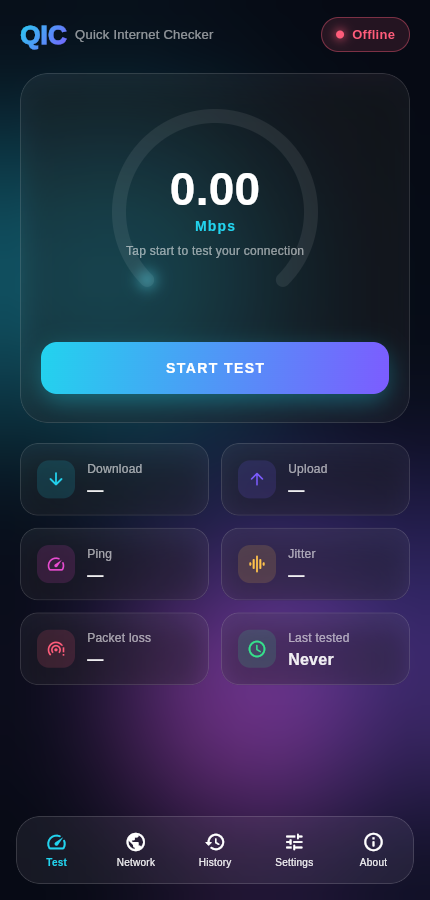
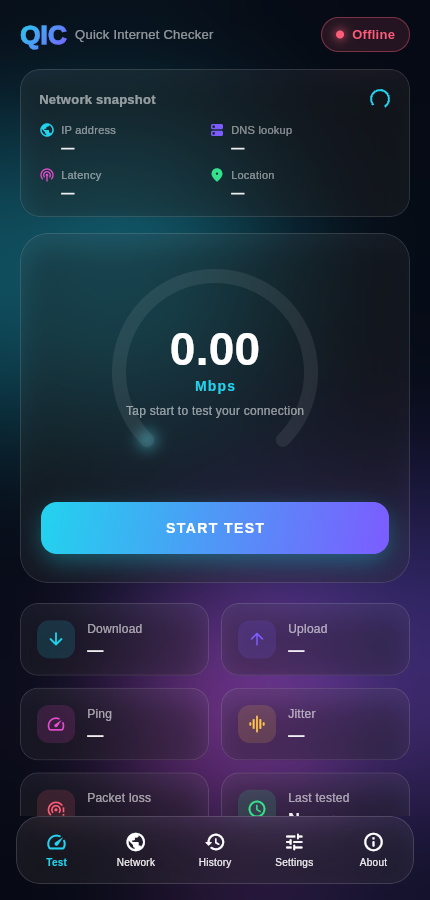
Fix light theme and add a home-screen network snapshot
Glass cards and the nav bar were tinting with a saturated brand color
in light mode, which read as flat colored blocks instead of frosted
glass. Switch to a white-based translucent tint in light mode so the
background gradient shows through properly, matching the dark theme's
look and feel.

Also add a "Network snapshot" card to the home screen (IP address, DNS
lookup time, latency, and location) so IP/DNS/latency are visible at a
glance without switching tabs, and split the Network Info screen's
combined location line into separate City/Region/Country rows.

diff --git a/lib/screens/home_screen.dart b/lib/screens/home_screen.dart
@@ -29,12 +29,41 @@ class _HomeScreenState extends State<HomeScreen> {
   bool? _online;
   bool _checkingConnectivity = true;
 
+  IpInfo? _ipInfo;
+  bool _ipFailed = false;
+  int? _dnsMs;
+  bool _dnsSupported = true;
+  int? _latencyMs;
+  bool _snapshotLoading = true;
+
   @override
   void initState() {
     super.initState();
     _refreshConnectivity();
     _loadLastResult();
+    _loadSnapshot();
     _network.connectivityStream.listen((_) => _refreshConnectivity());
+  }
+
+  Future<void> _loadSnapshot() async {
+    setState(() => _snapshotLoading = true);
+    final results = await Future.wait([
+      _network.fetchIpInfo().then<IpInfo?>((v) => v).catchError((_) => null),
+      _network.dnsLookupMs('example.com'),
+      _network.pingAll(),
+    ]);
+    if (!mounted) return;
+    final ipInfo = results[0] as IpInfo?;
+    final dnsMs = results[1] as int?;
+    final pings = (results[2] as List<PingResult>).where((p) => p.isReachable).map((p) => p.ms!);
+    setState(() {
+      _ipInfo = ipInfo;
+      _ipFailed = ipInfo == null;
+      _dnsMs = dnsMs;
+      _dnsSupported = dnsMs != null;
+      _latencyMs = pings.isEmpty ? null : pings.reduce((a, b) => a < b ? a : b);
+      _snapshotLoading = false;
+    });
   }
 
   Future<void> _loadLastResult() async {
@@ -157,7 +186,19 @@ class _HomeScreenState extends State<HomeScreen> {
                     ),
             ],
           ),
-          const SizedBox(height: 20),
+          const SizedBox(height: 16),
+          _NetworkSnapshotCard(
+            loading: _snapshotLoading,
+            ip: _ipInfo?.ip,
+            ipFailed: _ipFailed,
+            isp: _ipInfo?.isp,
+            location: _ipInfo?.location,
+            dnsMs: _dnsMs,
+            dnsSupported: _dnsSupported,
+            latencyMs: _latencyMs,
+            onRefresh: _loadSnapshot,
+          ),
+          const SizedBox(height: 16),
           GlassCard(
             borderRadius: BorderRadius.circular(28),
             padding: const EdgeInsets.symmetric(vertical: 28, horizontal: 20),
@@ -270,5 +311,137 @@ class _HomeScreenState extends State<HomeScreen> {
     if (diff.inMinutes < 60) return '${diff.inMinutes}m ago';
     if (diff.inHours < 24) return '${diff.inHours}h ago';
     return '${diff.inDays}d ago';
+  }
+}
+
+/// At-a-glance IP / DNS / latency readout, separate from the on-demand
+/// download+upload speed test above.
+class _NetworkSnapshotCard extends StatelessWidget {
+  final bool loading;
+  final String? ip;
+  final bool ipFailed;
+  final String? isp;
+  final String? location;
+  final int? dnsMs;
+  final bool dnsSupported;
+  final int? latencyMs;
+  final VoidCallback onRefresh;
+
+  const _NetworkSnapshotCard({
+    required this.loading,
+    required this.ip,
+    required this.ipFailed,
+    required this.isp,
+    required this.location,
+    required this.dnsMs,
+    required this.dnsSupported,
+    required this.latencyMs,
+    required this.onRefresh,
+  });
+
+  @override
+  Widget build(BuildContext context) {
+    final mutedColor = Theme.of(context).colorScheme.onSurface.withValues(alpha: 0.55);
+    return GlassCard(
+      borderRadius: BorderRadius.circular(20),
+      padding: const EdgeInsets.fromLTRB(18, 14, 14, 14),
+      child: Column(
+        crossAxisAlignment: CrossAxisAlignment.start,
+        children: [
+          Row(
+            mainAxisAlignment: MainAxisAlignment.spaceBetween,
+            children: [
+              Text('Network snapshot', style: TextStyle(fontWeight: FontWeight.w700, fontSize: 13, color: mutedColor)),
+              SizedBox(
+                width: 30,
+                height: 30,
+                child: loading
+                    ? const Padding(
+                        padding: EdgeInsets.all(6),
+                        child: CircularProgressIndicator(strokeWidth: 2),
+                      )
+                    : IconButton(
+                        padding: EdgeInsets.zero,
+                        iconSize: 18,
+                        onPressed: onRefresh,
+                        icon: const Icon(Icons.refresh_rounded),
+                      ),
+              ),
+            ],
+          ),
+          const SizedBox(height: 8),
+          Wrap(
+            spacing: 20,
+            runSpacing: 10,
+            children: [
+              _SnapshotFact(
+                icon: Icons.public_rounded,
+                accent: AppColors.cyan,
+                label: 'IP address',
+                value: ipFailed ? 'Unavailable' : (ip ?? '—'),
+              ),
+              _SnapshotFact(
+                icon: Icons.dns_rounded,
+                accent: AppColors.violet,
+                label: 'DNS lookup',
+                value: !dnsSupported ? 'N/A on web' : (dnsMs == null ? '—' : '$dnsMs ms'),
+              ),
+              _SnapshotFact(
+                icon: Icons.podcasts_rounded,
+                accent: AppColors.magenta,
+                label: 'Latency',
+                value: latencyMs == null ? '—' : '$latencyMs ms',
+              ),
+              _SnapshotFact(
+                icon: Icons.location_on_rounded,
+                accent: AppColors.online,
+                label: 'Location',
+                value: location ?? '—',
+              ),
+            ],
+          ),
+          if (isp != null) ...[
+            const SizedBox(height: 10),
+            Text('ISP: $isp', style: TextStyle(fontSize: 12, color: mutedColor)),
+          ],
+        ],
+      ),
+    );
+  }
+}
+
+class _SnapshotFact extends StatelessWidget {
+  final IconData icon;
+  final Color accent;
+  final String label;
+  final String value;
+
+  const _SnapshotFact({required this.icon, required this.accent, required this.label, required this.value});
+
+  @override
+  Widget build(BuildContext context) {
+    return SizedBox(
+      width: 150,
+      child: Row(
+        crossAxisAlignment: CrossAxisAlignment.start,
+        children: [
+          Icon(icon, size: 16, color: accent),
+          const SizedBox(width: 6),
+          Expanded(
+            child: Column(
+              crossAxisAlignment: CrossAxisAlignment.start,
+              children: [
+                Text(label, style: TextStyle(fontSize: 11, color: Theme.of(context).colorScheme.onSurface.withValues(alpha: 0.5))),
+                Text(
+                  value,
+                  style: const TextStyle(fontWeight: FontWeight.w700, fontSize: 13),
+                  overflow: TextOverflow.ellipsis,
+                ),
+              ],
+            ),
+          ),
+        ],
+      ),
+    );
   }
 }

diff --git a/lib/widgets/glass_card.dart b/lib/widgets/glass_card.dart
@@ -21,8 +21,6 @@ class GlassCard extends StatelessWidget {
   @override
   Widget build(BuildContext context) {
     final isDark = Theme.of(context).brightness == Brightness.dark;
-    final tint = isDark ? Colors.white : Theme.of(context).colorScheme.primary;
-    final borderColor = isDark ? Colors.white : Theme.of(context).colorScheme.primary;
 
     final content = ClipRRect(
       borderRadius: borderRadius,
@@ -31,12 +29,17 @@ class GlassCard extends StatelessWidget {
         child: Container(
           padding: padding,
           decoration: BoxDecoration(
-            color: tint.withValues(alpha: isDark ? 0.05 : 0.55),
+            // Frosted glass: a near-white (or near-black) tint, never a
+            // saturated brand color — that reads as a flat colored block
+            // instead of glass, especially in light mode.
+            color: isDark ? Colors.white.withValues(alpha: 0.05) : Colors.white.withValues(alpha: 0.62),
             borderRadius: borderRadius,
-            border: Border.all(color: borderColor.withValues(alpha: isDark ? 0.12 : 0.15)),
+            border: Border.all(
+              color: isDark ? Colors.white.withValues(alpha: 0.12) : Colors.white.withValues(alpha: 0.85),
+            ),
             boxShadow: [
               BoxShadow(
-                color: Colors.black.withValues(alpha: isDark ? 0.35 : 0.06),
+                color: (isDark ? Colors.black : const Color(0xFF3346A6)).withValues(alpha: isDark ? 0.35 : 0.10),
                 blurRadius: 24,
                 offset: const Offset(0, 12),
               ),

diff --git a/lib/screens/root_shell.dart b/lib/screens/root_shell.dart
@@ -83,12 +83,18 @@ class _GlassNavBar extends StatelessWidget {
           child: Container(
             height: 68,
             decoration: BoxDecoration(
-              color: (isDark ? Colors.white : Theme.of(context).colorScheme.primary)
-                  .withValues(alpha: isDark ? 0.06 : 0.5),
+              color: isDark ? Colors.white.withValues(alpha: 0.06) : Colors.white.withValues(alpha: 0.68),
               borderRadius: BorderRadius.circular(24),
               border: Border.all(
-                color: (isDark ? Colors.white : Theme.of(context).colorScheme.primary).withValues(alpha: 0.14),
+                color: isDark ? Colors.white.withValues(alpha: 0.14) : Colors.white.withValues(alpha: 0.9),
               ),
+              boxShadow: [
+                BoxShadow(
+                  color: (isDark ? Colors.black : const Color(0xFF3346A6)).withValues(alpha: isDark ? 0.3 : 0.10),
+                  blurRadius: 20,
+                  offset: const Offset(0, 8),
+                ),
+              ],
             ),
             child: Row(
               children: List.generate(_items.length, (i) {

diff --git a/lib/screens/network_info_screen.dart b/lib/screens/network_info_screen.dart
@@ -97,7 +97,9 @@ class _NetworkInfoScreenState extends State<NetworkInfoScreen> {
                   if (_ipInfo != null) ...[
                     _InfoRow(label: 'IP address', value: _ipInfo!.ip),
                     _InfoRow(label: 'ISP', value: _ipInfo!.isp ?? 'Unknown'),
-                    _InfoRow(label: 'Location', value: _ipInfo!.location),
+                    _InfoRow(label: 'City', value: _ipInfo!.city ?? 'Unknown'),
+                    _InfoRow(label: 'Region', value: _ipInfo!.region ?? 'Unknown'),
+                    _InfoRow(label: 'Country', value: _ipInfo!.country ?? 'Unknown'),
                   ] else if (_ipError != null)
                     Text(_ipError!, style: TextStyle(color: AppColors.offline))
                   else
